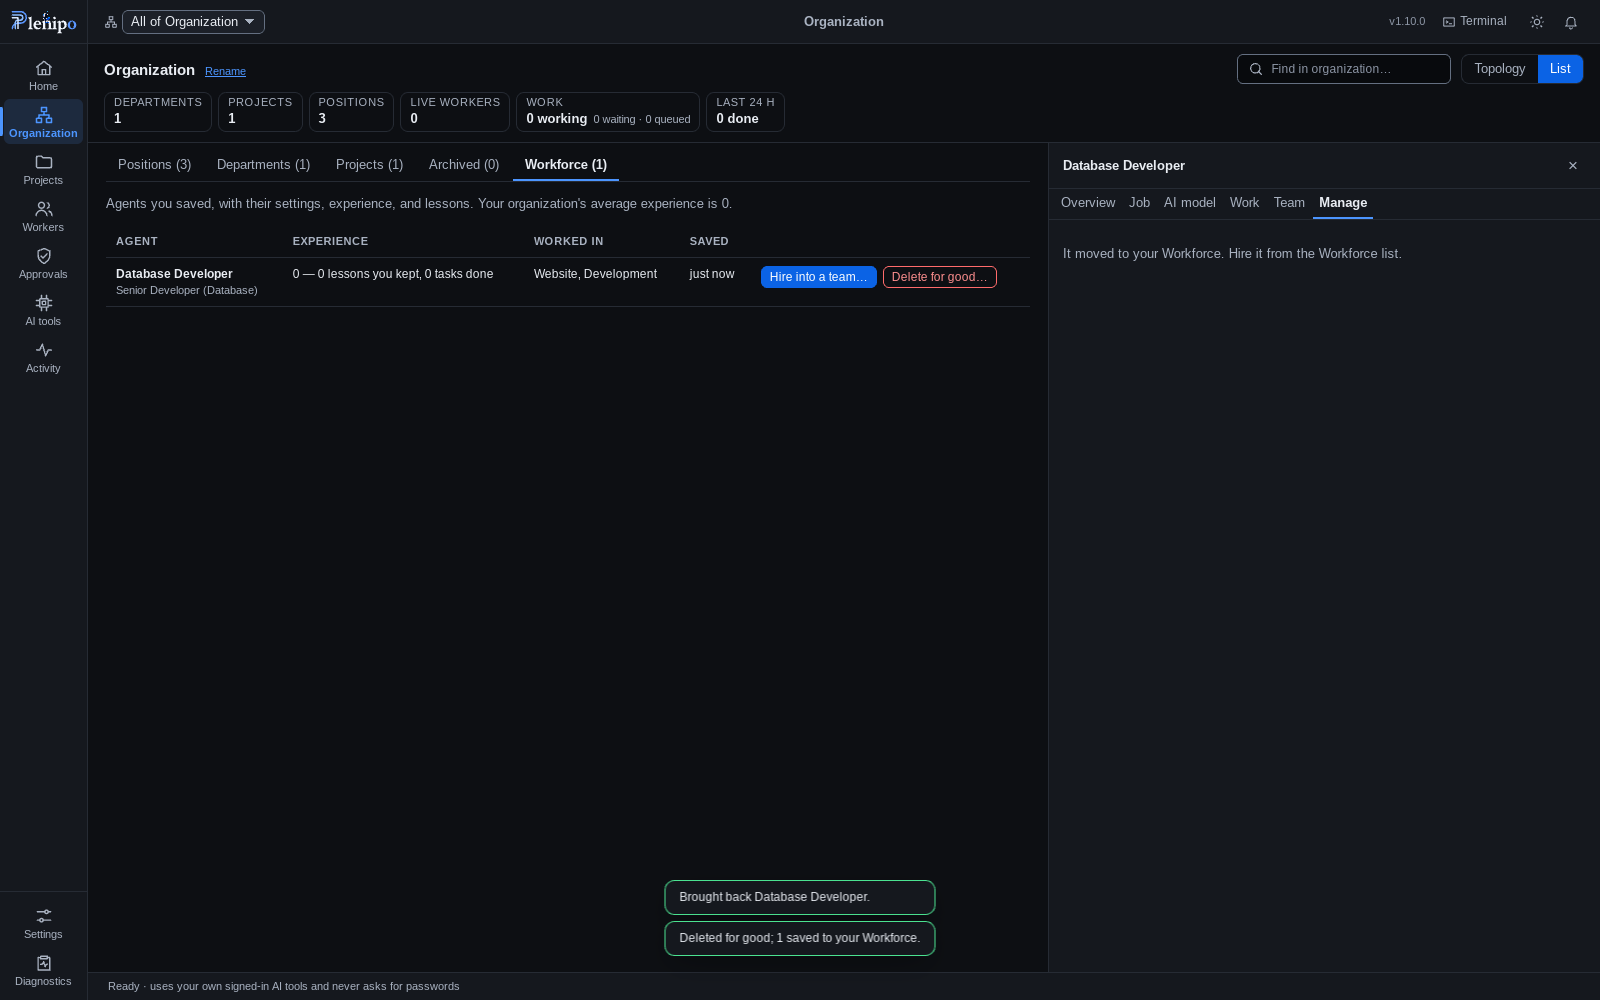
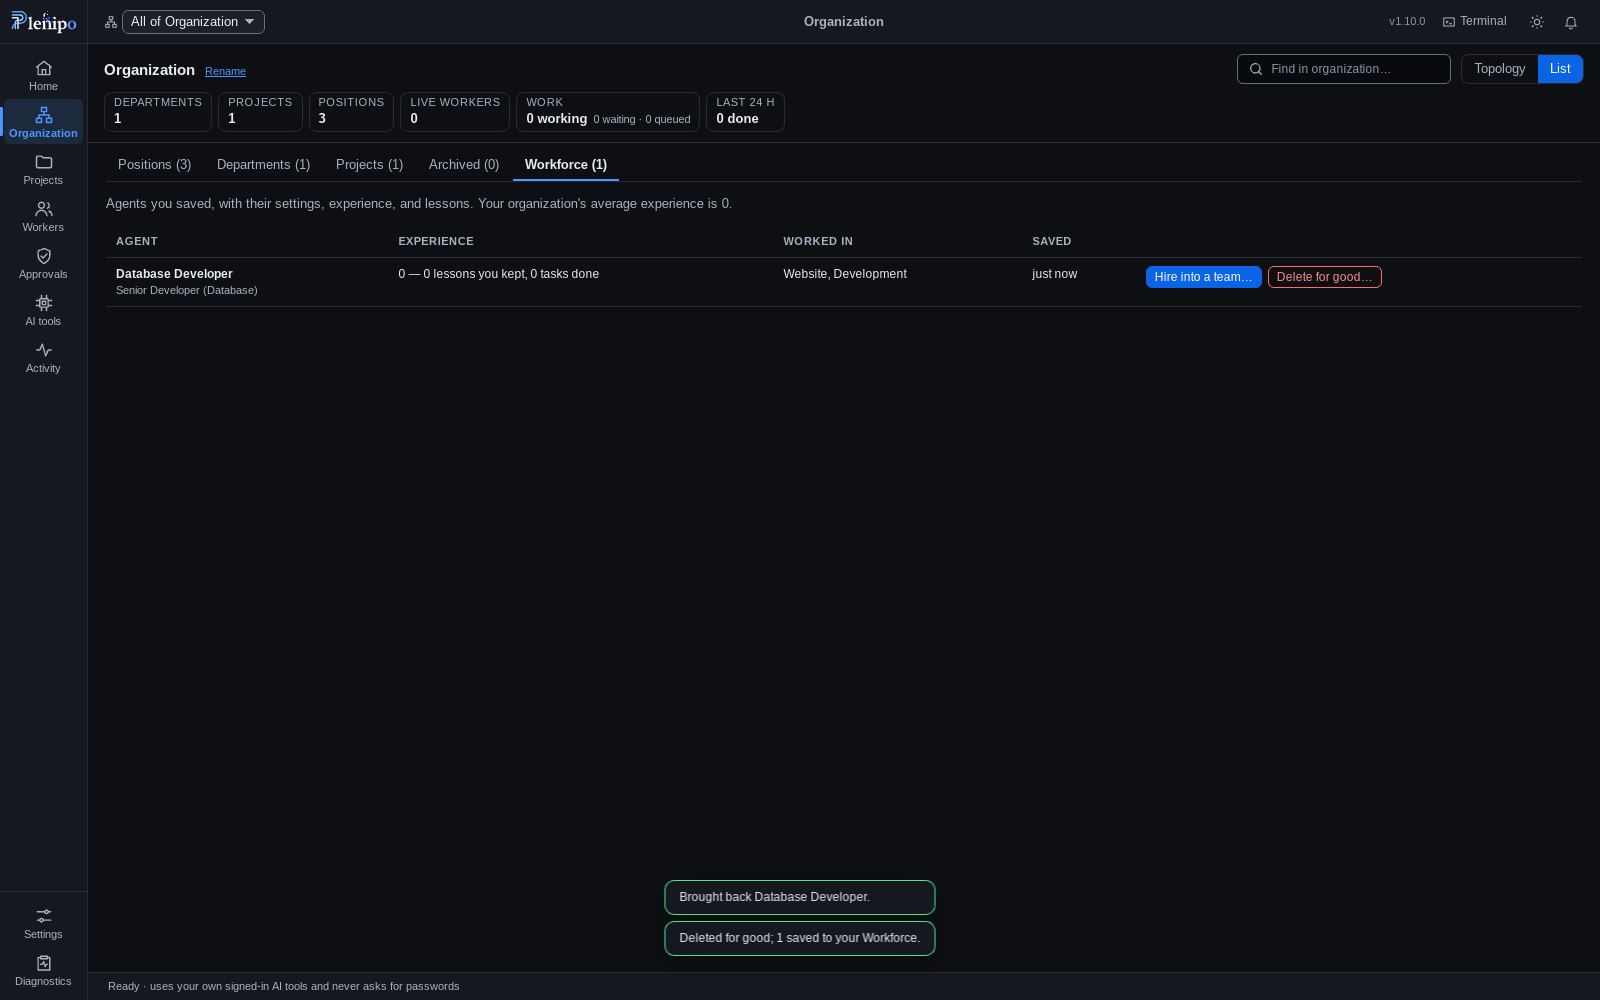
docs(phase-17): final screenshots, test totals, and the checklist done
The end-to-end run on the merged build refreshed the Phase 17 evidence
(the Delete for good box's new words, an on-call agent's Manage tab
without an empty People section). The acceptance report gives the test
totals: 1,053 Rust, 567 frontend, and 76 end-to-end tests.

Claude-Session: https://claude.ai/code/session_01L53yZpakKMR9aNzKV3xTrc

diff --git a/docs/phases/phase-17-acceptance-report.md b/docs/phases/phase-17-acceptance-report.md
@@ -4,7 +4,7 @@
 | ------------ | ------------------------------------------------------------------------------------------------------------------------------------------------------------------------------------------------------------------------------------------------------------------------------------------------------------------------------------------------ |
 | **Phase**    | 17 — The Owner's Control Over Workers                                                                                                                                                                                                                                                                                                            |
 | **Branch**   | `claude/phase-17` ([PR #77](https://github.com/Seckcey/plenipo/pull/77))                                                                                                                                                                                                                                                                         |
-| **Verified** | {VERIFIED}                                                                                                                                                                                                                                                                                                                                       |
+| **Verified** | Locally on Linux: `pnpm check`, `cargo fmt/clippy/test`, `pnpm bindings` (no diff), and `pnpm e2e` against the release build (section 3). GitHub CI (Rust, Frontend, E2E on Linux, and Windows, where the installer tests install, upgrade over 1.8.0, and uninstall the real installer) runs on the final commit; its results are on PR #77.    |
 | **Date**     | 2026-09-27 (Pacific time)                                                                                                                                                                                                                                                                                                                        |
 | **Result**   | All six acceptance criteria and every Phase 17 test in the plan pass; every deliverable is built. Version **1.10.0**. Decisions: ADR-041 to ADR-044, accepted by the owner, and ADR-045, the owner's addition; all built, with the differences each records as built. The walk-through with real AI tools on Windows is the owner's (section 8). |
 
@@ -23,7 +23,10 @@ Screenshots (from the end-to-end run in the real app, `tests/e2e/specs/control.e
   [a whole department archived](evidence/phase-17/control-archived-department.png)
 - **The Workforce:** [an agent saved, ready to hire again](evidence/phase-17/control-workforce.png)
 
-Test totals: {TOTALS}
+Test totals: **1,053 Rust** · **567 frontend** (304 design system + 263 app) · **76 end-to-end**
+tests against the real release binary: 68 pass here, one is skipped, and the seven that need what
+this machine lacks (the browser group needs Chrome; the server and terminal groups need
+`ssh-keygen`) run on GitHub.
 
 On screen the plan's words become plain ones ([word list](../design/vocabulary.md)): a "layer"
 is a **rule** ("the Development department's rule"), a "position" is an **agent** on the chart,

diff --git a/docs/phases/phase-17-checklist.md b/docs/phases/phase-17-checklist.md
@@ -267,7 +267,7 @@ again, for "talent pool", "bench", "agent library").
 - [x] (ADR-045) Experience counts kept lessons and finished tasks; deleting for good offers the
       agents above the average, saves the checked ones to the Workforce, and deletes the rest;
       hiring from the Workforce brings back its settings, experience, and lessons.
-- [ ] End-to-end tests in the real app, with screenshots for the acceptance report.
+- [x] End-to-end tests in the real app, with screenshots for the acceptance report.
 
 ## Owner's rules for this phase
 
@@ -284,12 +284,12 @@ again, for "talent pool", "bench", "agent library").
       sizes are numbers only).
 - [x] No model names in commits or pull requests.
 - [x] Version 1.10.0 everywhere, with the Phase 17 row in `docs/development/versioning.md`.
-- [ ] Release notes (`docs/releases/v1.10.0.md`), the plan's Phase 17 status line and its state in
+- [x] Release notes (`docs/releases/v1.10.0.md`), the plan's Phase 17 status line and its state in
       the order of work, this checklist, and the acceptance report with screenshots in
       `evidence/phase-17/`, in Pacific time.
 - [x] A review across several areas, with a second reviewer checking each finding, before the
       final push (five areas; acceptance report §7).
-- [ ] Before each push: `pnpm check`, `cargo fmt --all -- --check`,
+- [x] Before each push: `pnpm check`, `cargo fmt --all -- --check`,
       `cargo clippy --workspace --all-targets --locked -- -D warnings`,
       `cargo test --workspace --locked`, `pnpm bindings` with no diff (documentation-only pushes:
       `pnpm docs:check`).
